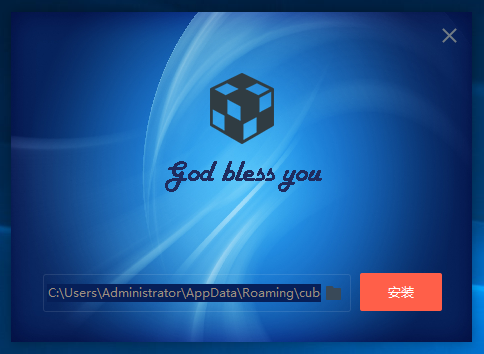
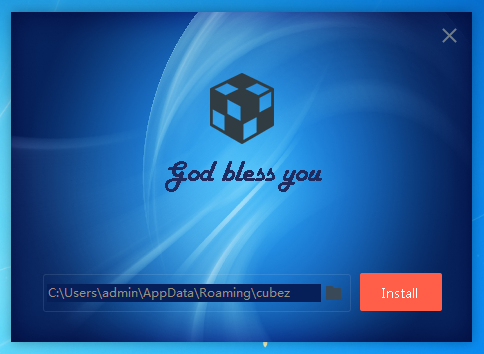
update readme and release 1.1.1

Changed region(s): [[0.0, 0.0, 1.0, 1.0], [0.2169, 0.8079, 0.6818, 0.839], [0.7748, 0.8079, 0.8678, 0.839]]

diff --git a/src/component/aboutframe/aboutframe.vue b/src/component/aboutframe/aboutframe.vue
@@ -1,13 +1,21 @@
 <template>
-  <div class="app-about">
-    <div class="app-about-title">关于</div>
-    <div class="app-about-close" @click.stop = "closeWindow"></div>
-    <div class="app-about-copyright"></div>
-    <div class="app-about-protocol"></div>
+  <div class="backgrounddiv">
+     <tittlebar :tittle="$t('About')" :showmin="false"></tittlebar>
+     <div class="maindiv">
+        <div class="maindiv-topdiv"></div>
+        <div class="maindiv-middlediv">
+          <p>{{$t("The software")}}<b-link href="https://bitbucket.org/woaicide/cubez-web/src/master/" target="_blank">{{$t("here")}}</b-link></p>
+          <p>{{$t("Feedback and comments")}}</p>
+          <p>{{$t("If you")}}<b-link href="https://new.crcf.org.cn/donations/PayLove.aspx" target="_blank">{{$t("Red Cross foundation")}}</b-link></p>
+        </div>
+        <div class="maindiv-bottomdiv"></div>
+    </div>
   </div>
 </template>
 
 <script>
+import i18n from '@/i18n'
+import tittlebar from '@/component/common/tittlebar/tittlebar.vue'
 export default {
   metaInfo: {
         title: 'Aboutframe', // set a title
@@ -19,6 +27,9 @@ export default {
           lang: 'zh-CN'
         }
   },
+  components: {
+    tittlebar
+  },
   data () {
     return {
 
@@ -29,21 +40,29 @@ export default {
   },
   methods: {
     init () {
-      this.$WebSDK('win.resize', 500, 350)
+      this.$WebSDK('win.resize', 360, 260)
       this.$WebSDK('win.move', 4)
-      this.setCaptionArea()
-      this.$WebSDK('win.show')
+      window.onresize = () => {
+        this.setCaptionArea()
+      }
       this.$WebSDK('ipc.addWindowEventListener', ({ uri, data }) => {
       switch (uri) {
         case this.$DataUri.App_CloseAllWindow:
           window.close()
           break
+        case this.$DataUri.AboutFrame_ShowWindow:
+          this.$WebSDK('win.move', 4)
+          this.$WebSDK('win.show')
+          break
+        case this.$DataUri.APP_LanguageChange:
+            i18n.setLocale(data)
+            break
       }
     }, this)
     },
     setCaptionArea () {
-      const w = 500 - 35
-      this.$WebSDK('win.setDragArea', [[0, 0, w, 50]])
+      let areaTop = [0, 0, document.body.offsetWidth - 30,  30]
+      this.$WebSDK('win.setDragArea', [areaTop])
     }
   }
 }
@@ -54,56 +73,47 @@ export default {
 </style>
 
 <style lang='scss' scoped>
-.app-about{
+$back-color: rgb(0, 137, 227);
+.backgrounddiv{
   position: relative;
-  width: 500px;
+  width: 100%;
   margin: 0;
-  height: 350px;
-  background: #282b30;
-  border-radius: 0px;
-  &-close{
-    border: none;
-    width: 12px;
-    height: 12px;
+  height: 100%;
+  background: $back-color;
+  display: -webkit-flex;
+  display: flex;
+  -webkit-flex-direction: column;
+  flex-direction: column;
+  //background: url('./img/back.png') no-repeat;
+  //border-radius: 0px;
+  //background-size: 100% 100%
+
+  .maindiv {
+    height: 100%;
+    flex: 1 1 auto;
+    background: beige;
     margin: 0;
-    background: url('/asserts/close-bt.png');
-    background-position: 0px -72px;
-    position: absolute;
-    top: 10px;
-    right: 10px;
-    cursor: pointer;
-    z-index: 9;
-  }
-  &-protocol{
-    text-align: center;
-    position: absolute;
-    left: 75px;
-    right: 75px;
-    bottom: 20px;
-    color: #f29400;
-    cursor: pointer;
-    font-size: 12px;
-    font-weight: normal;
-  }
-  &-copyright{
-    text-align: center;
-    position: absolute;
-    left: 0px;
-    right: 0px;
-    bottom: 41px;
-    color: #a0a2a4;
-    font-size: 12px;
-    font-weight: normal;
-    display: inline-block;
-    max-width: 100%;
-  }
-  &-title{
-    color: #ebebeb;
-    position: absolute;
-    left: 15px;
-    top: 15px;
-    font-weight: bold;
-    font-size: 14px;
+    display: flex;
+    display: -webkit-flex;
+    flex-direction: column;
+    justify-content: center;
+    font-size: 13px;
+
+    .maindiv-topdiv {
+      height: calc(25%);
+      width: 100%;
+      flex: 1 1 auto;
+    }
+
+    .maindiv-middlediv {
+      margin-left: 10%;
+      margin-right: 10%;
+    }
+
+    .maindiv-bottomdiv {
+      height: calc(25%);
+      flex: 1 1 auto;
+    }
   }
 }
 </style>

diff --git a/src/component/mainframe/mainframe.vue b/src/component/mainframe/mainframe.vue
@@ -39,7 +39,8 @@ export default {
       trayWindow: null,
       popupWindow: null,
       clipWindow: null,
-      calendarWindow: null
+      calendarWindow: null,
+      aboutWindow: null
     }
   },
   async mounted () {
@@ -94,6 +95,11 @@ export default {
         if(this.settingWindow == null) {
           this.$WebSDK('sdk.openWindow', '/#/setting', 'settingframe', 'left=9999,top=9999,minimizeresizable:0,maximizeresizable:0,forbidsystemclose:1,titlebar:0,topmost:1,taskbaricon:0,windowvisible:0,offscreenrendering:0,guardapp:0').then(r => {
             this.settingWindow = r
+          })
+        }
+        if(this.aboutWindow == null) {
+          this.$WebSDK('sdk.openWindow', '/#/about', 'aboutframe', 'left=9999,top=9999,minimizeresizable:1,maximizeresizable:0,forbidsystemclose:1,titlebar:0,topmost:1,taskbaricon:1,windowvisible:0,offscreenrendering:0,guardapp:0').then(r => {
+            this.aboutWindow = r
           })
         }
         if(this.calendarWindow == null) {

diff --git a/src/component/traymenuframe/traymenuframe.vue b/src/component/traymenuframe/traymenuframe.vue
@@ -4,6 +4,7 @@
         <li @click.stop="showMainFrame">{{$t('Show MainFrame')}}</li>
         <li @click.stop="resetMainFrame">{{$t('Reset MainFrame')}}</li>
         <li @click.stop="showSettingFrame">{{$t('Setting')}}</li>
+        <li @click.stop="showAboutFrame">{{$t('About Us')}}</li>
         <li class="quit" @click.stop="quitClick">{{$t('Exit')}}</li>
     </ul>
   </div>
@@ -91,6 +92,10 @@ export default {
     },
     showSettingFrame() {
        this.$WebSDK('ipc.dispatchWindowEvent', this.$DataUri.SettingFrame_ShowWindow, '')
+       this.$WebSDK('win.hide')
+    },
+    showAboutFrame() {
+       this.$WebSDK('ipc.dispatchWindowEvent', this.$DataUri.AboutFrame_ShowWindow, '')
        this.$WebSDK('win.hide')
     },
     clearDelay () {

diff --git a/src/public/common/DataUri.js b/src/public/common/DataUri.js
@@ -13,6 +13,7 @@ class DataUri {
     static ChatFrame_OnMessage = 'DataUri_ChatFrame_OnMessage';
     static ChatFrame_OnTransFileReq = 'DataUri_ChatFrame_OnTransFileReq';
     static ChatFrame_ItemClose = 'DataUri_ChatFrame_ItemClose';
+    static AboutFrame_ShowWindow = 'DataUri_AboutFrame_ShowWindow';
 }
 
 export const DataUriPlugin = {

diff --git a/README.md b/README.md
@@ -12,7 +12,11 @@ you can:
 
 ![picture](readme/install.png)
 
-![picture](readme/ui01.png)
+![picture](readme/system.png)
+
+![picture](readme/filefingerprint.png)
+
+![picture](readme/impanel.png.png)
 
 ![picture](readme/im.png)
 
